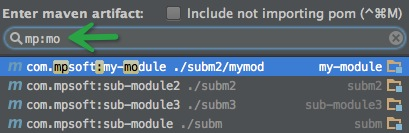
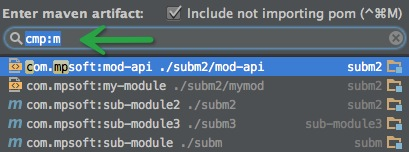
include non project pom files

diff --git a/src/main/java/com/lightd/ideap/maven/navigation/PomNavigationContributor.java b/src/main/java/com/lightd/ideap/maven/navigation/PomNavigationContributor.java
@@ -4,23 +4,32 @@ import com.intellij.navigation.ChooseByNameContributorEx;
 import com.intellij.navigation.NavigationItem;
 import com.intellij.openapi.project.DumbAware;
 import com.intellij.openapi.project.Project;
-import com.intellij.openapi.util.text.StringUtil;
+import com.intellij.psi.PsiFile;
+import com.intellij.psi.PsiFileSystemItem;
 import com.intellij.psi.PsiManager;
+import com.intellij.psi.codeStyle.MinusculeMatcher;
+import com.intellij.psi.codeStyle.NameUtil;
+import com.intellij.psi.search.FilenameIndex;
 import com.intellij.psi.search.GlobalSearchScope;
+import com.intellij.psi.search.GlobalSearchScopes;
 import com.intellij.util.ArrayUtil;
 import com.intellij.util.CommonProcessors;
 import com.intellij.util.Processor;
 import com.intellij.util.indexing.FindSymbolParameters;
 import com.intellij.util.indexing.IdFilter;
 import org.jetbrains.annotations.NotNull;
+import org.jetbrains.idea.maven.dom.MavenDomUtil;
 import org.jetbrains.idea.maven.model.MavenId;
 import org.jetbrains.idea.maven.project.MavenProject;
 import org.jetbrains.idea.maven.project.MavenProjectsManager;
 
+import java.util.LinkedHashMap;
 import java.util.List;
+import java.util.Map;
 
 public class PomNavigationContributor implements ChooseByNameContributorEx, DumbAware {
     private final Project project;
+    private MavenProjectsManager projectsManager;
 
     public PomNavigationContributor(Project project) {
         this.project = project;
@@ -28,17 +37,23 @@ public class PomNavigationContributor implements ChooseByNameContributorEx, Dumb
 
     @Override
     public void processNames(@NotNull final Processor<String> processor, @NotNull GlobalSearchScope scope, IdFilter filter) {
-        List<MavenProject> mavenProjects = MavenProjectsManager.getInstance(project).getRootProjects();
+        projectsManager = MavenProjectsManager.getInstance(project);
+        List<MavenProject> mavenProjects = projectsManager.getRootProjects();
         if (mavenProjects.size() > 0) {
             addProjectNames(processor, mavenProjects.get(0));
+
+            if (scope.isSearchInLibraries()) {
+                for (MavenId mavenId : getNotImportPoms(mavenProjects.get(0)).keySet()) {
+                    processor.process(mavenId.getKey());
+                }
+            }
         }
     }
 
-    private void addProjectNames(final Processor<String> processor, MavenProject rootProject) {
-        MavenId id = rootProject.getMavenId();
-        processor.process(String.format("%s:%s:%s", id.getGroupId(), id.getArtifactId(), id.getVersion()));
-        for (MavenProject mavenProject : MavenProjectsManager.getInstance(project).getModules(rootProject)) {
-            addProjectNames(processor, mavenProject);
+    private void addProjectNames(final Processor<String> processor, MavenProject mavenProject) {
+        processor.process(mavenProject.getMavenId().getKey());
+        for (MavenProject subModule : projectsManager.getModules(mavenProject)) {
+            addProjectNames(processor, subModule);
         }
     }
 
@@ -46,20 +61,24 @@ public class PomNavigationContributor implements ChooseByNameContributorEx, Dumb
     public void processElementsWithName(@NotNull String name,
                                         @NotNull final Processor<NavigationItem> processor,
                                         @NotNull FindSymbolParameters parameters) {
-        String[] names = name.split(":");
-        if (!StringUtil.isEmptyOrSpaces(parameters.getCompletePattern())) {
-            String[] pattern = parameters.getCompletePattern().split(":");
+        final MinusculeMatcher matcher = NameUtil.buildMatcher(parameters.getCompletePattern(), NameUtil.MatchingCaseSensitivity.FIRST_LETTER);
 
-            if (pattern.length == 1 && !name.contains(pattern[0]) ||
-                    pattern.length > 1 && (!StringUtil.containsIgnoreCase(names[0], pattern[0]) ||
-                            !StringUtil.containsIgnoreCase(names[1], pattern[1]))) {
-                return;
-            }
-        }
+        if (!matcher.isStartMatch(name.substring(0, name.lastIndexOf(':')))) return;
+
+        String[] names = name.split(":");
         MavenId mavenId = new MavenId(names[0], names[1], names[2]);
-        MavenProject p = MavenProjectsManager.getInstance(project).findProject(mavenId);
+        projectsManager = MavenProjectsManager.getInstance(project);
+        MavenProject p = projectsManager.findProject(mavenId);
+        PsiFileSystemItem pomFile = null;
         if (p != null) {
-            processor.process(new PomWrapper(PsiManager.getInstance(project).findFile(p.getFile()), mavenId, project.getBasePath()));
+            pomFile = PsiManager.getInstance(project).findFile(p.getFile());
+        } else if (parameters.isSearchInLibraries()) {
+            Map<MavenId, PsiFile> notImportPoms = getNotImportPoms(projectsManager.getRootProjects().get(0));
+            pomFile = notImportPoms.get(mavenId);
+        }
+        if (pomFile != null) {
+            PomWrapper pomWrapper = new PomWrapper(pomFile, mavenId, project.getBasePath());
+            processor.process(pomWrapper);
         }
     }
 
@@ -78,5 +97,18 @@ public class PomNavigationContributor implements ChooseByNameContributorEx, Dumb
         CommonProcessors.CollectProcessor<NavigationItem> processor = new CommonProcessors.CollectProcessor<NavigationItem>();
         processElementsWithName(name, processor, FindSymbolParameters.wrap(pattern, project, includeNonProjectItems));
         return processor.toArray(new NavigationItem[processor.getResults().size()]);
+    }
+
+    private Map<MavenId, PsiFile> getNotImportPoms(MavenProject mavenProject) {
+        GlobalSearchScope pomScope = GlobalSearchScopes.directoryScope(project, mavenProject.getDirectoryFile(), true);
+        PsiFile[] psiFiles = FilenameIndex.getFilesByName(project, "pom.xml", pomScope);
+        Map<MavenId, PsiFile> poms = new LinkedHashMap<MavenId, PsiFile>(psiFiles.length);
+        for (PsiFile psiFile : psiFiles) {
+            if (projectsManager.findProject(psiFile.getVirtualFile()) == null) {
+                MavenId mavenId = MavenDomUtil.describe(psiFile);
+                poms.put(mavenId, psiFile);
+            }
+        }
+        return poms;
     }
 }

diff --git a/src/main/java/com/lightd/ideap/maven/navigation/PomWrapper.java b/src/main/java/com/lightd/ideap/maven/navigation/PomWrapper.java
@@ -1,23 +1,29 @@
 package com.lightd.ideap.maven.navigation;
 
 import com.intellij.openapi.vfs.VirtualFile;
-import com.intellij.psi.PsiElement;
 import com.intellij.psi.PsiFile;
-import icons.MavenIcons;
+import com.intellij.psi.PsiFileSystemItem;
+import com.intellij.psi.impl.RenameableFakePsiElement;
 import org.jetbrains.annotations.Nullable;
-import org.jetbrains.idea.maven.dom.references.MavenPsiElementWrapper;
 import org.jetbrains.idea.maven.model.MavenCoordinate;
 
 import javax.swing.*;
 
-public class PomWrapper extends MavenPsiElementWrapper {
+public class PomWrapper extends RenameableFakePsiElement {
     private final MavenCoordinate coordinate;
     private final String rootPath;
+    private final PsiFileSystemItem pomFile;
 
-    PomWrapper(PsiElement wrappeeElement, MavenCoordinate coordinate, String rootPath) {
-        super(wrappeeElement, null);
+    PomWrapper(PsiFileSystemItem pomFile, MavenCoordinate coordinate, String rootPath) {
+        super(pomFile.getParent());
+        this.pomFile = pomFile;
         this.coordinate = coordinate;
         this.rootPath = rootPath;
+    }
+
+    @Override
+    public String getTypeName() {
+        return pomFile.getVirtualFile().getFileType().getName();
     }
 
     @Override
@@ -27,22 +33,17 @@ public class PomWrapper extends MavenPsiElementWrapper {
 
     @Override
     public Icon getIcon() {
-        return MavenIcons.MavenLogo;
-    }
-
-    @Override
-    public PsiFile getWrappee() {
-        return (PsiFile) super.getWrappee();
+        return pomFile.getIcon(ICON_FLAG_VISIBILITY);
     }
 
     @Nullable
     @Override
     public String getLocationString() {
         String localPath = null;
-        if (getWrappee().getPresentation() != null) {
-            localPath = getWrappee().getPresentation().getLocationString();
+        if (pomFile.getPresentation() != null) {
+            localPath = pomFile.getPresentation().getLocationString();
             if (localPath != null && localPath.length() > rootPath.length()) {
-                return "." + localPath.substring(rootPath.length());
+                localPath = "." + localPath.substring(rootPath.length());
             }
         }
         return localPath;
@@ -50,15 +51,18 @@ public class PomWrapper extends MavenPsiElementWrapper {
 
     @Override
     public boolean isValid() {
-        return getWrappee().isValid();
+        return pomFile.isValid();
     }
 
     @Override
     public PsiFile getContainingFile() {
-        return getWrappee().getContainingFile();
+        if (pomFile instanceof PsiFile) {
+            return (PsiFile) pomFile;
+        }
+        return pomFile.getContainingFile();
     }
 
     public VirtualFile getVirtualFile() {
-        return getWrappee().getVirtualFile();
+        return pomFile.getVirtualFile();
     }
 }
